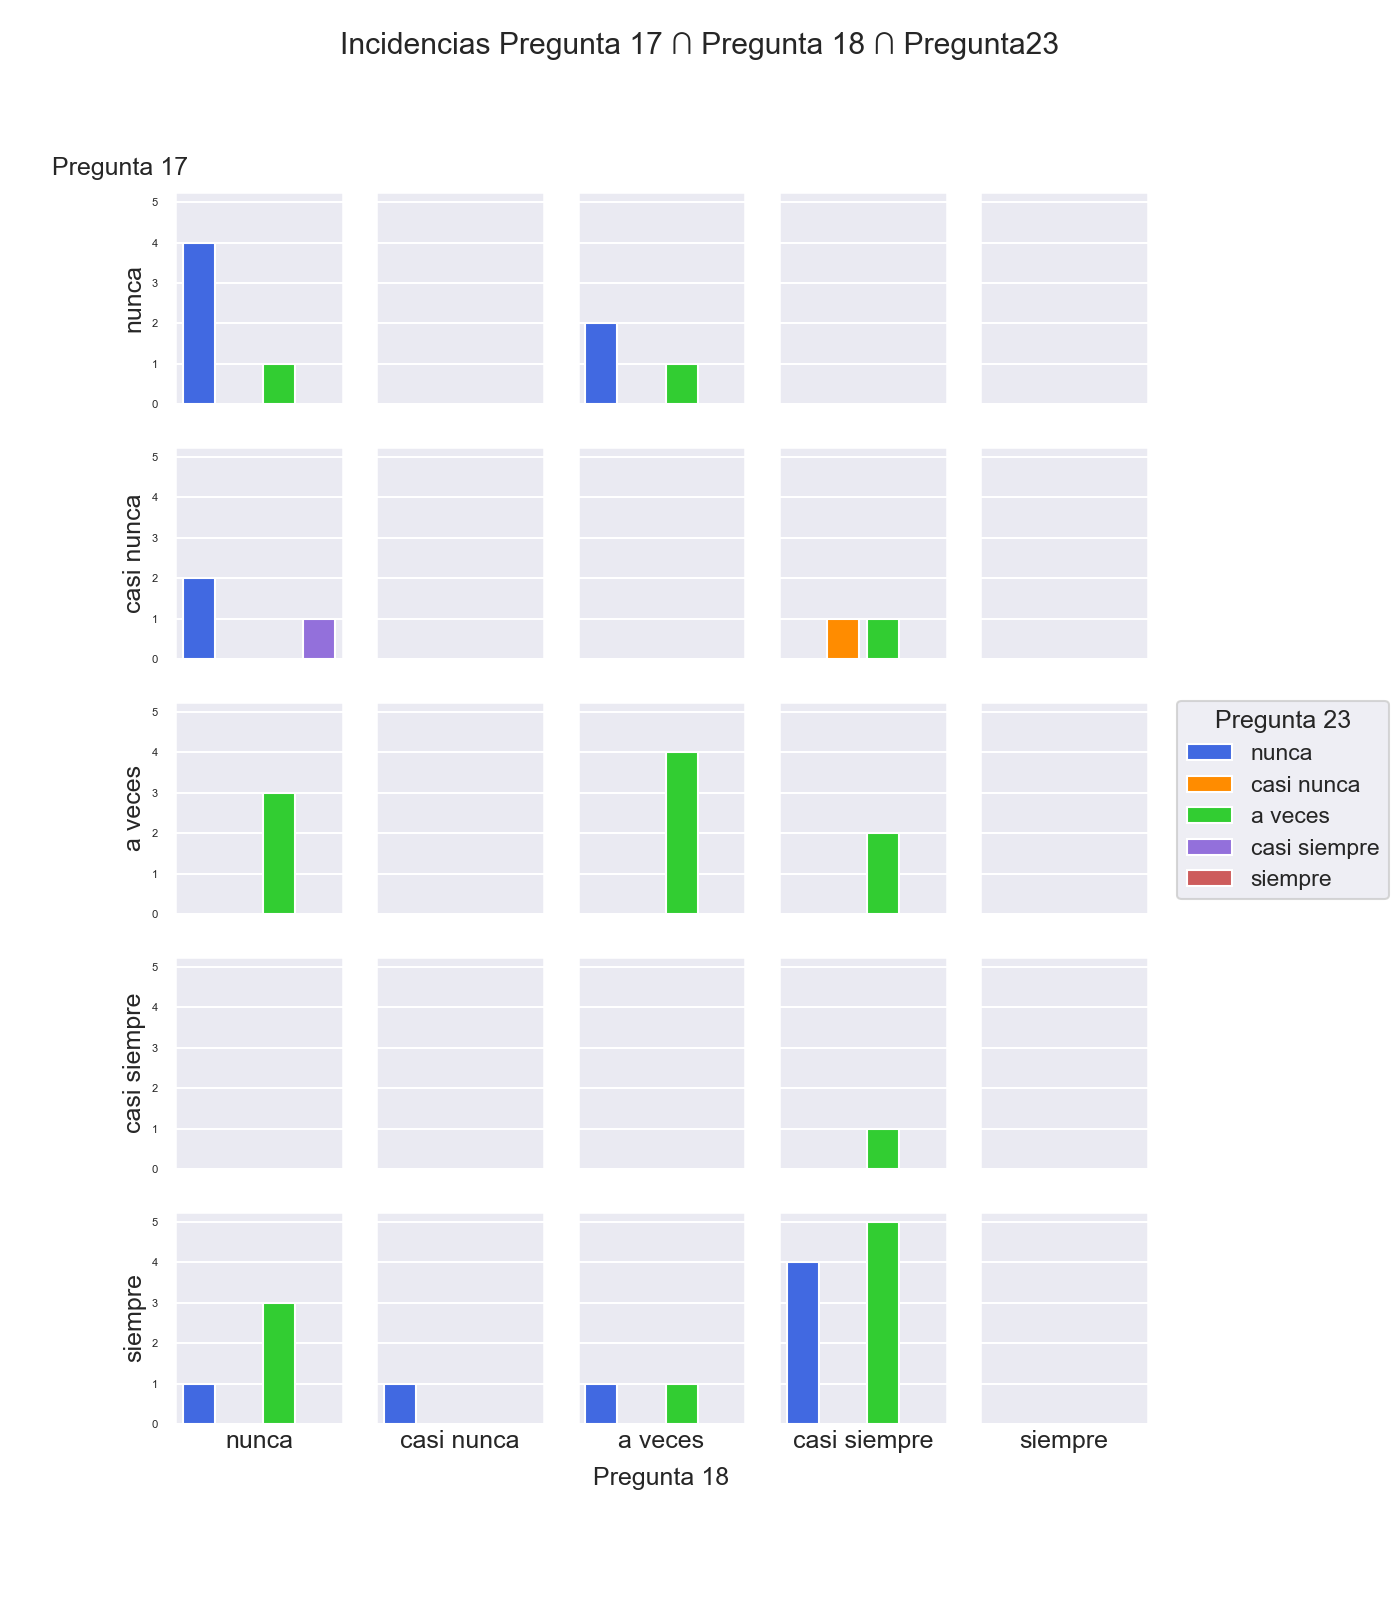
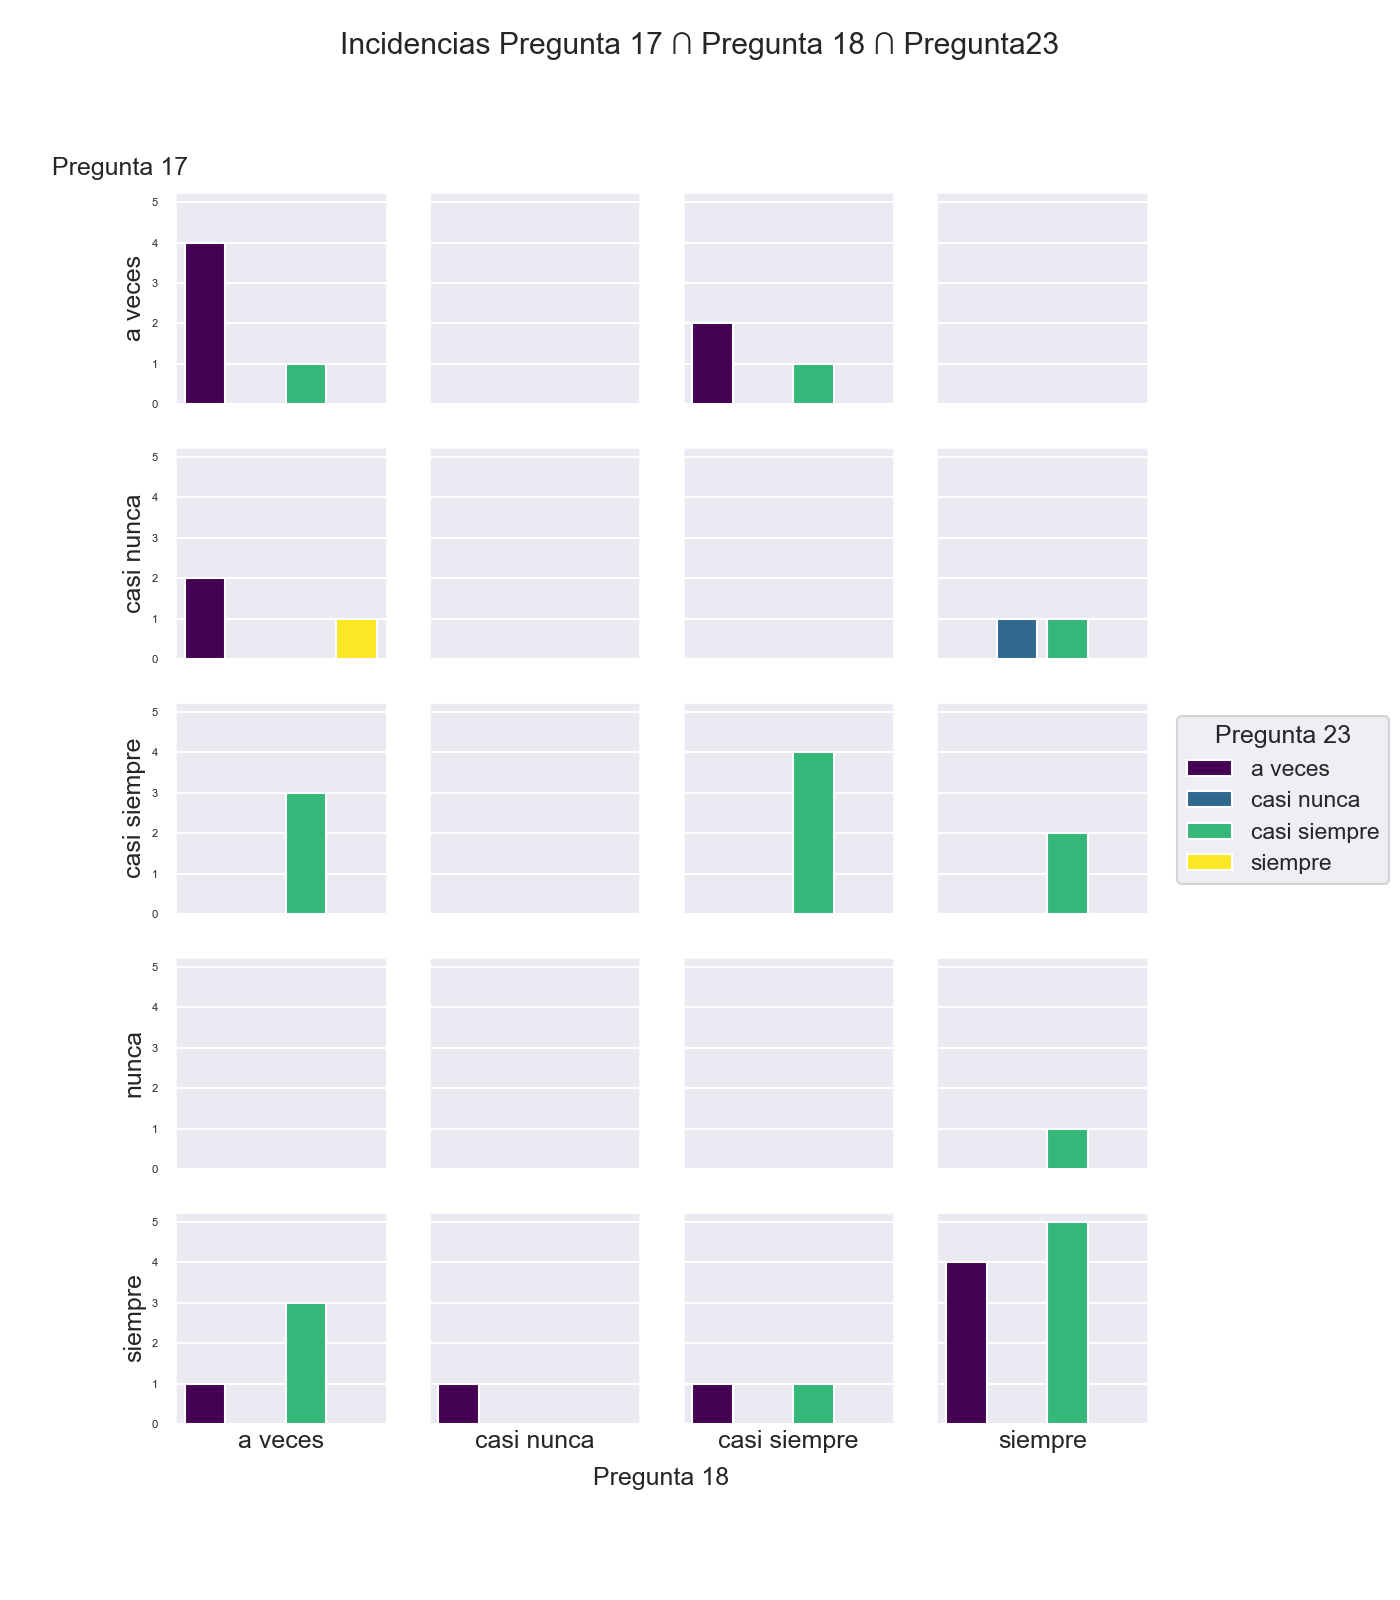
REFACTOR: despliegue correcto de etiquetas de incidencias ; correcion de escritura de getOpcionesPregunta5_6()

diff --git a/scripts/plots.py b/scripts/plots.py
@@ -1,5 +1,4 @@
 import pandas
-import numpy
 import seaborn as sns
 import numpy as np
 import matplotlib.pyplot as plt
@@ -135,29 +134,6 @@ def getDataFrameRespuestasCategoricasNormalizadas(df_csv):
             
     return df_normalizado
 
-# TODO ARREGLAS METODO QUE CAMBIA FUNCIONAMIENTO DE INCIDENCIAS
-def getDataFrameRespuestasCategoricasAbreviadas(df_csv):
-    df_abreviado = df_csv.copy()
-    nombre_columnas = df_abreviado.columns.tolist()
-    nombre_columnas = nombre_columnas[4-1:5]
-
-    df_abreviado[nombre_columnas[0]] = df_abreviado[nombre_columnas[0]].apply(
-        lambda x: getAbreviacionesRespuestasIncidencias(x, 
-                                                        EncuestaPreliminar.getOpcionesPregunta4(), 
-                                                        EncuestaPreliminar.getOpcionesPregunta4(abreviar=True)))
-    
-    df_abreviado[nombre_columnas[1]] = df_abreviado[nombre_columnas[1]].apply(
-        lambda x: getAbreviacionesRespuestasIncidencias(x, 
-                                                        EncuestaPreliminar.getOpcionesPregunta5_6(), 
-                                                        EncuestaPreliminar.getOpcionesPregunta5_6(abreviar=True)))
-    
-    df_abreviado[nombre_columnas[2]] = df_abreviado[nombre_columnas[2]].apply(
-        lambda x: getAbreviacionesRespuestasIncidencias(x, 
-                                                        EncuestaPreliminar.getOpcionesPregunta5_6(), 
-                                                        EncuestaPreliminar.getOpcionesPregunta5_6(abreviar=True)))
-    
-    return df_abreviado
-
 def getSpanishStopWords():
     stop_words = list(stopwords.words('spanish'))
     return stop_words
@@ -168,18 +144,6 @@ def getFilteredSpanishWords(texto):
     palabras = texto.split()
     palabras_filtradas = [palabra for palabra in palabras if palabra not in stop_words]
     return ' '.join(palabras_filtradas)
-
-def getAbreviacionesRespuestasIncidencias(incidencias, originales, abreviaturas):
-    for incidencia in incidencias:
-        if incidencia in originales:
-            print(f"Incidencia: {incidencia}")
-            idx = originales.index(incidencia)
-            print(f"idx: {idx}")
-            abreviacion = abreviaturas[idx]
-            print(f"abreviacion: {abreviacion}")
-            return abreviacion
-        else:
-            return incidencia
 
 # * considerar extraer esos datos del metodo como una clase Singleton para no batallar
 # * REFERENCE: https://stackoverflow.com/questions/58303175/plotting-three-dimensions-of-categorical-data-in-python
@@ -194,7 +158,7 @@ def incidenciasTresPreguntas(df_csv, posiciones_preguntas):
                                            nombre_columnas[posiciones_preguntas[0]], 
                                            nombre_columnas[posiciones_preguntas[1]], 
                                            nombre_columnas[posiciones_preguntas[2]]]]
-    incidencia_interes['pivot'] = numpy.ones(39)
+    incidencia_interes['pivot'] = np.ones(39)
 
     grupo_incidencias = incidencia_interes.groupby(by=[
                                             nombre_columnas[posiciones_preguntas[0]], 
@@ -212,7 +176,6 @@ def incidenciasTresPreguntas(df_csv, posiciones_preguntas):
                             figsize=(14,16))
     fig.suptitle(f'Incidencias Pregunta {posiciones_preguntas[0]} \u2229 Pregunta {posiciones_preguntas[1]} \u2229 Pregunta{posiciones_preguntas[2]}')
 
-    # TODO problemas de graficación, AHORA ABREVIAR CAUSA PROBLEMAS
     # * colors for bar graph
     colors = [cm.viridis(v) for v in np.linspace(0, 1, len(grupo_incidencias.columns.levels[1]))]
     
@@ -243,24 +206,66 @@ def incidenciasTresPreguntas(df_csv, posiciones_preguntas):
     axeslabels.set_ylabel(f'Pregunta {posiciones_preguntas[0]}', y=1.01, rotation='horizontal')
     axeslabels.set_xlabel(f'Pregunta {posiciones_preguntas[1]}', loc='center')
 
-    # TODO REVISAR LABELS DE GRAFICAS
     # * etiquetas para los ejes de las subgraficas
     # * para segunda pregunta...
-    for i, j in enumerate(grupo_incidencias.index.levels[1]):
-        print(f"(i ,j) : {(i, j)}")
-        axes[nyplots, i].set_xlabel(j)
-      
-    # * para primer pregunta... 
-    for i, j in enumerate(grupo_incidencias.index.levels[0]):
-        print(f"(i ,j) : {(i, j)}")
-        axes[i, 0].set_ylabel(j)
+    opciones_pregunta4 = EncuestaPreliminar.getOpcionesPregunta4()
+    opciones_pregunta5 = EncuestaPreliminar.getOpcionesPregunta5_6()
+    opciones_pregunta6 = EncuestaPreliminar.getOpcionesPregunta5_6()
+    abreviaciones_pregunta4 = EncuestaPreliminar.getOpcionesPregunta4(abreviar=True)
+    abreviaciones_pregunta5 = EncuestaPreliminar.getOpcionesPregunta5_6(abreviar=True)
+    abreviaciones_pregunta6 = EncuestaPreliminar.getOpcionesPregunta5_6(abreviar=True)
+    index = None
+    abreviacion = None
 
-    # * leyenda para la gráfica general
-    fig.subplots_adjust(right=0.82)
-    fig.legend([Patch(facecolor = i) for i in colors],
-            grupo_incidencias.columns.levels[1],
-            title=f"Pregunta {posiciones_preguntas[2]}",
-            loc="center right")
+    # * para segunda pregunta...
+    for i, j in enumerate(grupo_incidencias.index.levels[1]):
+        if posiciones_preguntas[1] == 4 or posiciones_preguntas[1] == 5:
+            j_lower = j.lower()  # Convertir a minúsculas
+            index = [opcion.lower() for opcion in opciones_pregunta5].index(j_lower)
+            abreviacion = abreviaciones_pregunta5[index]
+            axes[nxplots-1, i].set_xlabel(abreviacion)
+        else:
+            axes[nxplots-1, i].set_xlabel(j)
+
+    # * para primer pregunta...
+    for i, j in enumerate(grupo_incidencias.index.levels[0]):
+        j_lower = j.lower()  # Convertir a minúsculas
+        if posiciones_preguntas[0] == 3:    
+            index = [opcion.lower() for opcion in opciones_pregunta4].index(j_lower)
+            abreviacion = abreviaciones_pregunta4[index]
+            axes[i,0].set_ylabel(abreviacion)
+        elif posiciones_preguntas[0] == 4:
+            index = [opcion.lower() for opcion in opciones_pregunta5].index(j_lower)
+            abreviacion = abreviaciones_pregunta5[index]
+            axes[i,0].set_ylabel(abreviacion)
+        else:
+            axes[i,0].set_ylabel(j)
+
+    # * cuando tenemos "5" como tercer posición
+    if posiciones_preguntas[2] == 5:
+        abreviaciones = []
+        
+        for i, j in enumerate(grupo_incidencias.columns.levels[1]):
+            j_lower = j.lower()  # Convertir a minúsculas
+            index = [opcion.lower() for opcion in opciones_pregunta6].index(j_lower)
+            abreviacion = abreviaciones_pregunta6[index]
+            abreviaciones.append(abreviacion)
+
+        # * leyenda para la gráfica general
+        # * colors for bar graph
+        colors = [cm.viridis(v) for v in np.linspace(0, 1, len(abreviaciones))]
+        fig.subplots_adjust(right=0.82)
+        fig.legend([Patch(facecolor=i) for i in colors],
+                abreviaciones,
+                title=f"Pregunta {posiciones_preguntas[2]}",
+                loc="center right")
+    else:
+        # * leyenda para la gráfica general
+        fig.subplots_adjust(right=0.82)
+        fig.legend([Patch(facecolor=i) for i in colors],
+                grupo_incidencias.columns.levels[1],
+                title=f"Pregunta {posiciones_preguntas[2]}",
+                loc="center right")
     
     plt.savefig(f"../results/plots/{nombre_archivo}")
     plt.close()    
@@ -298,12 +303,10 @@ def main():
     CSV_FILE = "../csv/EncuestaPreliminar.csv"
     df_csv = pandas.read_csv(CSV_FILE, encoding='utf-8')
     df_normalizado = getDataFrameRespuestasCategoricasNormalizadas(df_csv)
-    #df_abreviado = getDataFrameRespuestasCategoricasAbreviadas(df_normalizado)
 
     #getHistogramaDatosDemograficos(df_normalizado)
     #getHistogramaDiagnosticoAprendizajeQuimica(df_normalizado)
     #getWordCloudOpinionesQuimica(df_normalizado)
-    #getIncidenciasEncuestaPreliminar(df_abreviado) # ! NO SIRVE EL ABREVIADO ???
     getIncidenciasEncuestaPreliminar(df_normalizado) # * SI SIRVE EL NORMALIZADO
 
 if __name__ == "__main__":

diff --git a/scripts/optionsEncuestaPreliminar.py b/scripts/optionsEncuestaPreliminar.py
@@ -38,7 +38,31 @@ def getIndicesIncidenciasInteres():
 def getOpcionesPregunta3():
     return ["17", "18", "19", "20", "21 o más"]
 
-def getOpcionesPregunta4(abreviar=False):
+def getDiccionarioPregunta4(diccionario=False):
+    if diccionario:
+        opciones_pregunta4 = {
+            "C. Alta": "Clase Alta",
+            "C. Media Alta": "Clase Media Alta",
+            "C. Media": "Clase Media",
+            "C. Media Baja": "Clase Media Baja",
+            "C. Baja": "Clase Baja",
+        }
+        
+        return opciones_pregunta4
+
+def getDiccionarioPregunta5_6(diccionario=False):
+    if diccionario:
+            opciones_pregunta5_6 = {
+                "Pri tt": "Primaria terminada o trunca",
+                "Sec tt": "Secundaria terminada o trunca",
+                "Prepa/Bach tt": "Prepatoria/Bachillerato Técnico terminado o trunco",
+                "Lic tt": "Licenciatura terminada o trunca",
+                "Posgrados": "Posgrados (Maestría, Doctorado, etc.)",
+            }
+            
+            return opciones_pregunta5_6    
+
+def getOpcionesPregunta4(abreviar=False, ):
 
     if abreviar:
         return [
@@ -57,15 +81,21 @@ def getOpcionesPregunta4(abreviar=False):
             "Clase Baja",
         ]
 
-def getOpcionesPregunta5_6(abreviar=False):
-
+def getOpcionesPregunta5_6(abreviar=False, ):
+    
     if abreviar:
-        return ['Pri tt', 'Sec tt', 'Prepa/Bach tt', 'Lic tt', 'Posgrados']
+        return [
+            'Pri tt', 
+            'Sec tt', 
+            'Prepa/Bach tt', 
+            'Lic tt', 
+            'Posgrados'
+            ]
     else:
         return [ # * pregunta 5 Y 6
             "Primaria terminada o trunca",
             "Secundaria terminada o trunca",
-            "Prepatoria/Bachillerato Técnico terminado o trunco",
+            "Preparatoria/Bachillerato Técnico terminado o trunco",
             "Licenciatura terminada o trunca",
             "Posgrados (Maestría, Doctorado, etc.)",
         ]
